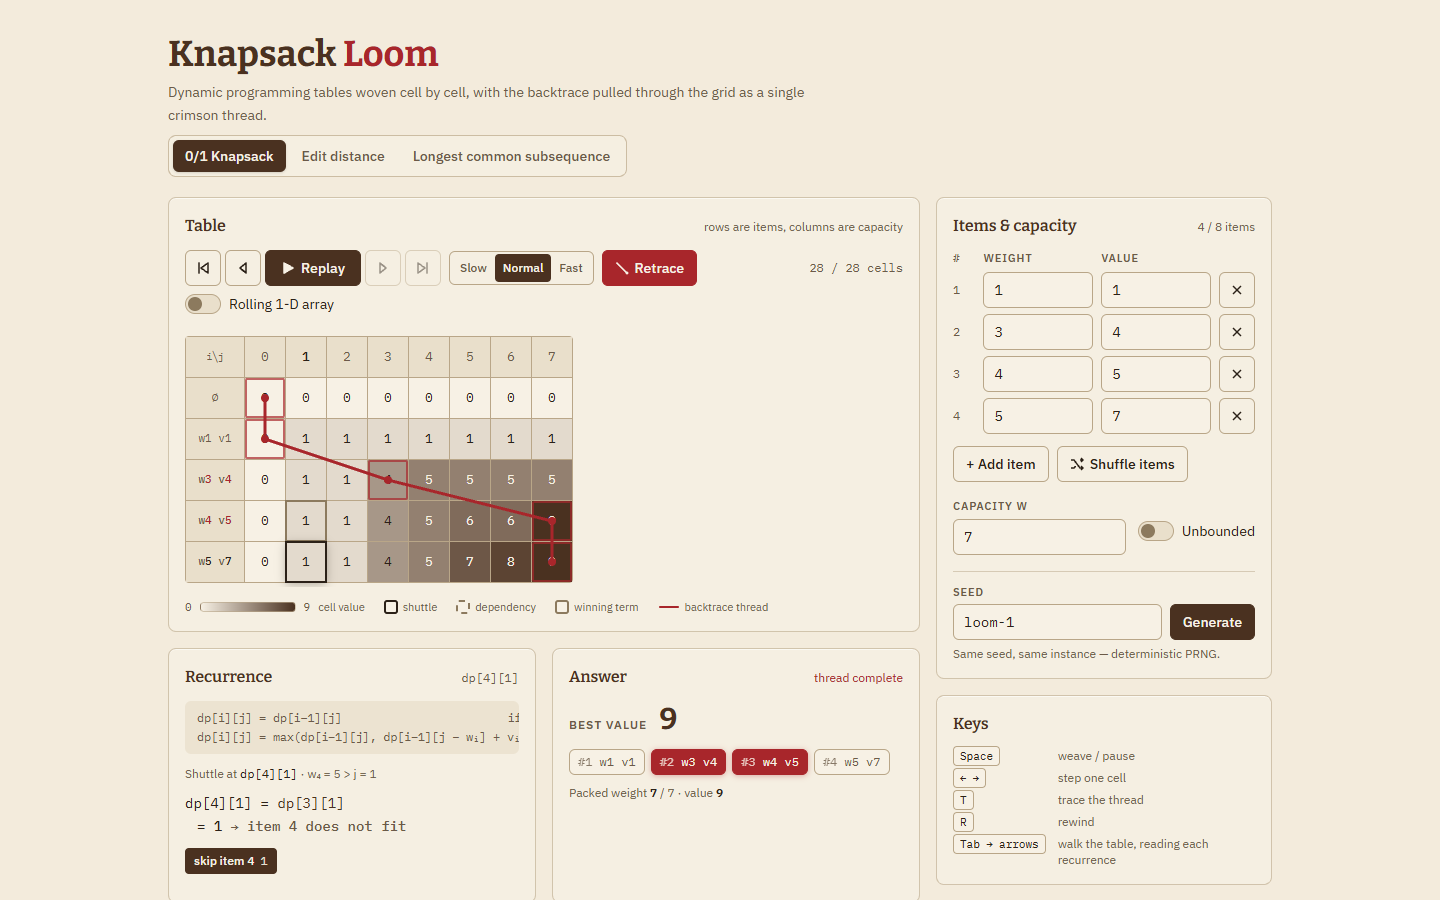
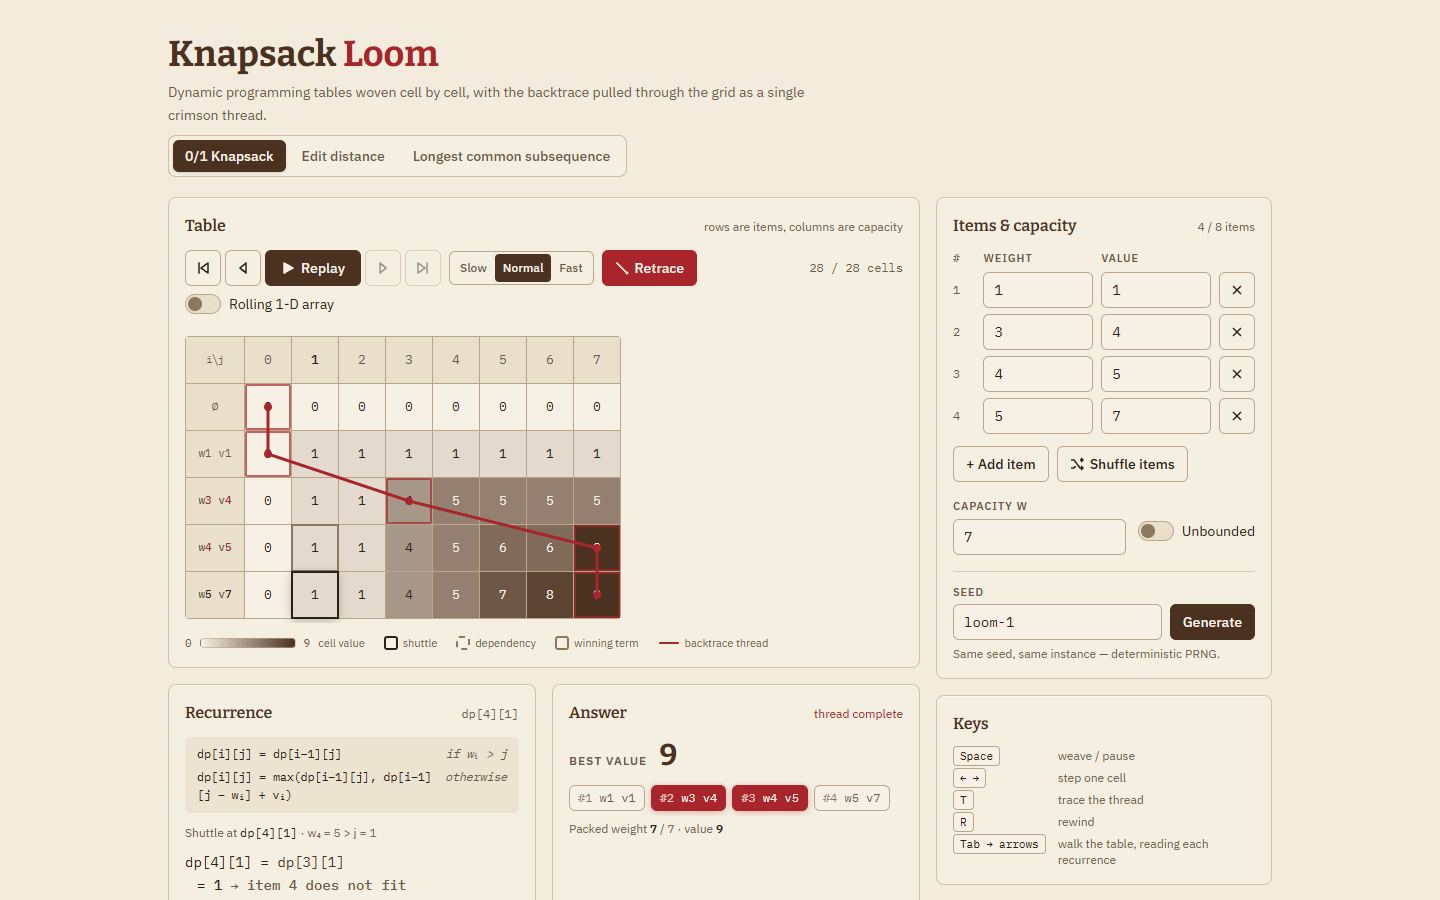
feat: shareable ?p= and ?rolling= URL state, select-on-focus numeric inputs, faster cell fade

Changed region(s): [[0.125, 0.3733, 0.625, 0.9956], [0.4688, 0.6533, 0.5312, 0.7467], [0.5625, 0.7467, 0.625, 0.8089]]

diff --git a/src/state/useLoom.ts b/src/state/useLoom.ts
@@ -1,5 +1,6 @@
 import { useEffect, useMemo, useReducer } from 'react'
-import { initialState, reducer, SPEED_MS, TRACE_MS, type AnyRun } from './loom'
+import type { ProblemId } from '../dp/recurrence'
+import { DEFAULT_INPUTS, initialState, reducer, SPEED_MS, TRACE_MS, type AnyRun } from './loom'
 
 /** Fill order per cell: 0 for pre-filled base cases, k for the k-th event. */
 export function fillOrder(run: AnyRun): number[][] {
@@ -11,8 +12,18 @@ export function fillOrder(run: AnyRun): number[][] {
   return order
 }
 
+const PROBLEM_IDS: ProblemId[] = ['knapsack', 'edit', 'lcs']
+
+/** Shareable start state: ?p=edit|lcs|knapsack&rolling=1 */
+function fromUrl() {
+  const q = new URLSearchParams(window.location.search)
+  const p = q.get('p') as ProblemId | null
+  const state = initialState(p && PROBLEM_IDS.includes(p) ? { ...DEFAULT_INPUTS, problem: p } : DEFAULT_INPUTS)
+  return q.get('rolling') === '1' ? { ...state, rolling: true } : state
+}
+
 export function useLoom() {
-  const [state, dispatch] = useReducer(reducer, undefined, () => initialState())
+  const [state, dispatch] = useReducer(reducer, undefined, fromUrl)
 
   useEffect(() => {
     if (!state.playing) return
@@ -25,6 +36,16 @@ export function useLoom() {
     const id = window.setInterval(() => dispatch({ type: 'traceTick' }), TRACE_MS)
     return () => window.clearInterval(id)
   }, [state.tracing])
+
+  useEffect(() => {
+    const q = new URLSearchParams(window.location.search)
+    if (state.inputs.problem === 'knapsack') q.delete('p')
+    else q.set('p', state.inputs.problem)
+    if (state.rolling && state.inputs.problem === 'knapsack') q.set('rolling', '1')
+    else q.delete('rolling')
+    const search = q.toString()
+    window.history.replaceState(null, '', `${window.location.pathname}${search ? `?${search}` : ''}`)
+  }, [state.inputs.problem, state.rolling])
 
   const order = useMemo(() => fillOrder(state.run), [state.run])
   const maxValue = useMemo(() => Math.max(0, ...state.run.table.flat()), [state.run])

diff --git a/src/components/DpGrid.tsx b/src/components/DpGrid.tsx
@@ -175,7 +175,7 @@ export default function DpGrid({ run, inputs, step, order, maxValue, trace, focu
                   aria-selected={isFocus || undefined}
                   onMouseEnter={() => onFocus({ i, j })}
                   onClick={() => onFocus({ i, j })}
-                  className={`relative grid cursor-crosshair place-items-center font-mono tabular transition-[background-color,color] duration-200 ${
+                  className={`relative grid cursor-crosshair place-items-center font-mono tabular transition-[background-color,color] duration-150 ${
                     isCurrent ? 'z-10 shadow-[0_2px_10px_rgba(43,33,24,0.35)]' : ''
                   } ${dep || isWinner || isFocus ? 'z-[5]' : ''}`}
                   style={{ ...style, outline, outlineOffset: -1 }}

diff --git a/src/components/ui.tsx b/src/components/ui.tsx
@@ -37,6 +37,7 @@ export function IconButton({ label, className = '', ...rest }: ButtonHTMLAttribu
 export function TextInput({ className = '', ...rest }: InputHTMLAttributes<HTMLInputElement>) {
   return (
     <input
+      onFocus={rest.type === 'number' ? (e) => e.currentTarget.select() : undefined}
       className={`h-9 w-full rounded-md border border-taupe bg-oat px-2.5 font-mono text-sm text-ink tabular outline-none transition-colors placeholder:text-taupe-deep focus:border-walnut focus:ring-2 focus:ring-walnut/30 ${className}`}
       {...rest}
     />
